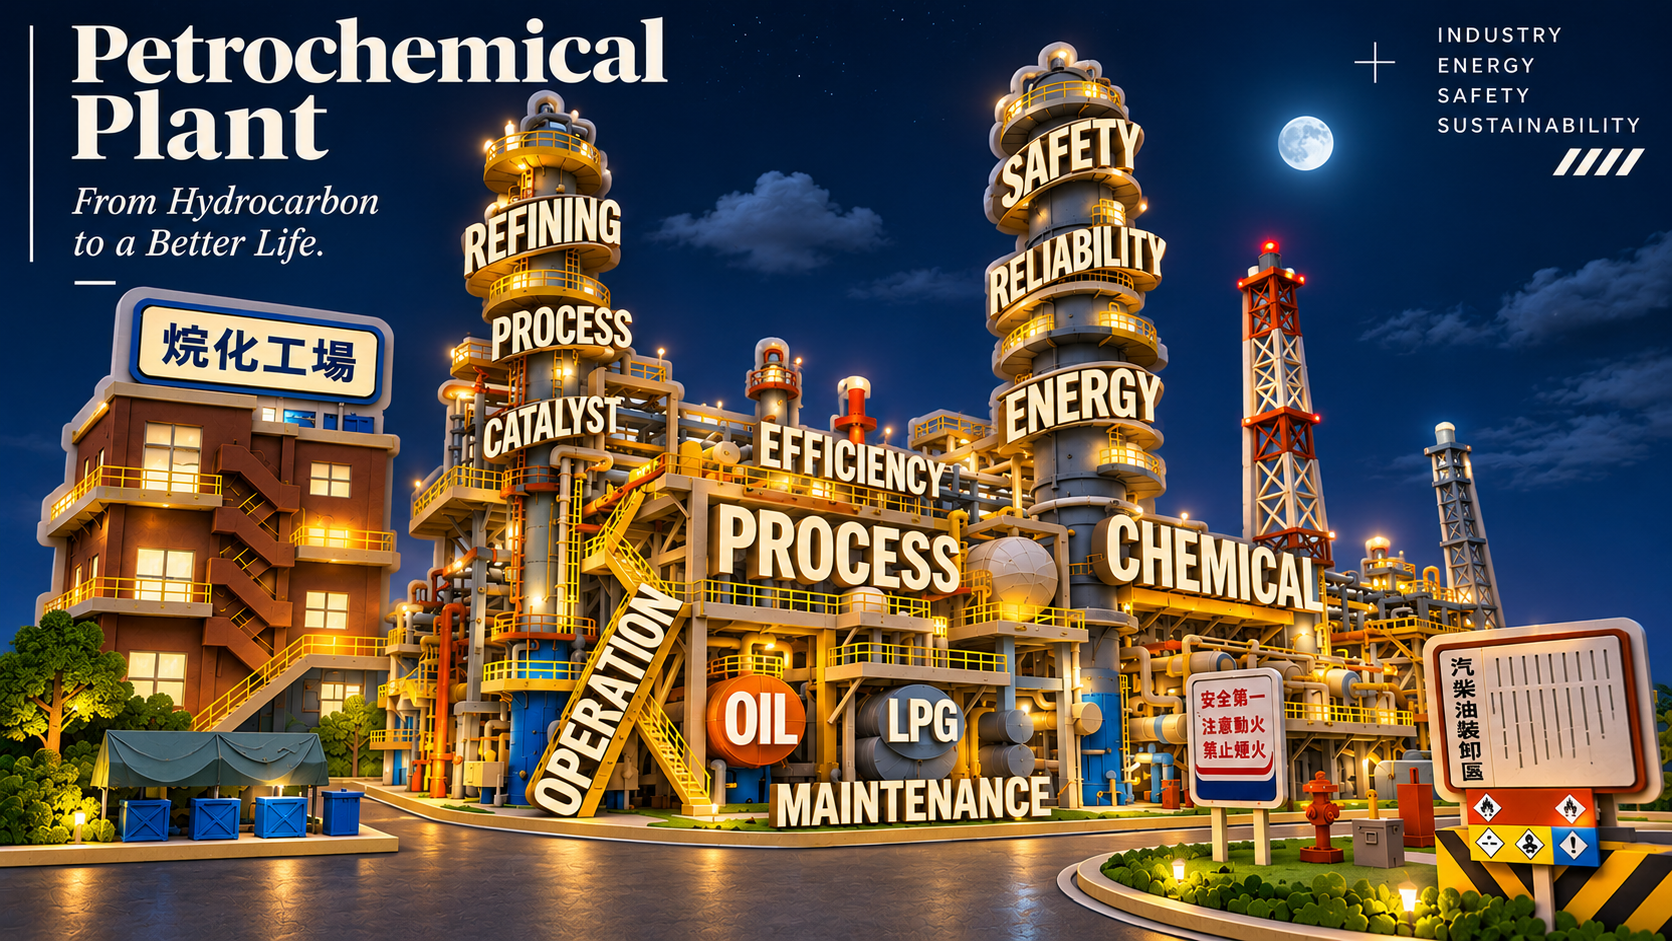
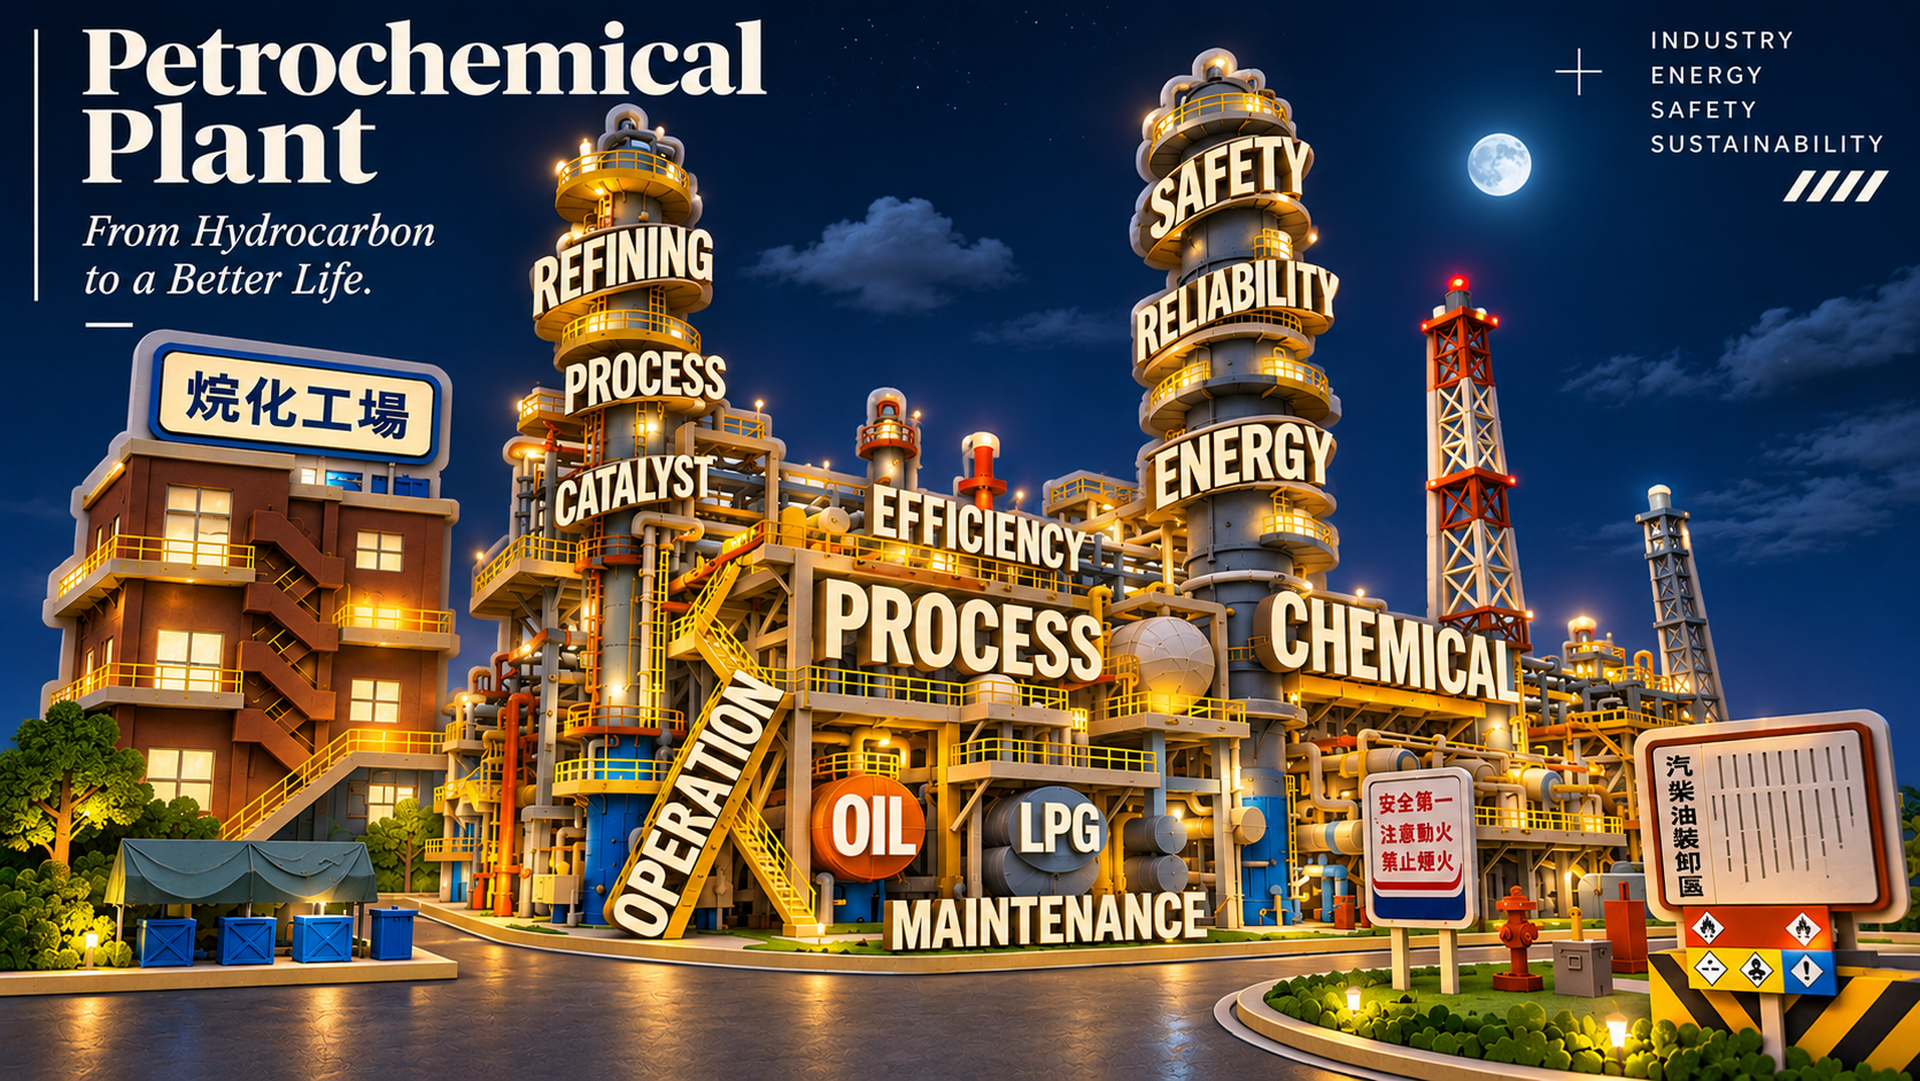
feat: 保存本機進度（更新風格素材、說明文件與批次工具）

diff --git a/src/upscale.py b/src/upscale.py
@@ -1,0 +1,117 @@
+"""圖片高畫質升頻工具 (Image Upscale Tool)
+
+將生成圖片自動調整至至少 1920x1080（2K/FHD）標準規格。
+- 16:9 比例：寬度至少 1920，高度至少 1080
+- 9:16 比例：寬度至少 1080，高度至少 1920
+採用 Pillow Lanczos 高品質插值重採樣，確保線條清晰平滑。
+"""
+
+import argparse
+import sys
+from pathlib import Path
+from PIL import Image
+
+
+TARGET_16_9 = (1920, 1080)
+TARGET_9_16 = (1080, 1920)
+
+
+def upscale_image(
+    image_path: Path,
+    min_width: int = 1920,
+    min_height: int = 1080,
+    output_path: Path | None = None,
+) -> tuple[int, int, bool]:
+    """將單張圖片升頻至指定門檻規格（若小於門檻）。
+
+    回傳：(新寬度, 新高度, 是否有進行放大)
+    """
+    image_path = Path(image_path)
+    if not image_path.exists():
+        raise FileNotFoundError(f"找不到檔案：{image_path}")
+
+    if output_path is None:
+        output_path = image_path
+
+    with Image.open(image_path) as img:
+        orig_w, orig_h = img.size
+        ratio = orig_w / orig_h
+
+        # 判斷是橫向 (接近 16:9) 還是直向 (接近 9:16)
+        if ratio >= 1.0:
+            target_min_w, target_min_h = min_width, min_height
+        else:
+            target_min_w, target_min_h = min_height, min_width
+
+        # 若兩邊都已達到或超過標準，且未強制放大，則保持原樣
+        if orig_w >= target_min_w and orig_h >= target_min_h:
+            return orig_w, orig_h, False
+
+        # 計算保持長寬比下的縮放倍率
+        scale_w = target_min_w / orig_w
+        scale_h = target_min_h / orig_h
+        scale = max(scale_w, scale_h)
+
+        new_w = int(round(orig_w * scale))
+        new_h = int(round(orig_h * scale))
+
+        # 使用 Lanczos 演算法進行高品質重採樣
+        resized_img = img.resize((new_w, new_h), resample=Image.Resampling.LANCZOS)
+
+        # 保持原本色彩模式與儲存品質
+        save_kwargs = {}
+        if image_path.suffix.lower() in [".jpg", ".jpeg"]:
+            save_kwargs["quality"] = 95
+            save_kwargs["subsampling"] = 0
+        elif image_path.suffix.lower() == ".png":
+            save_kwargs["optimize"] = True
+
+        resized_img.save(output_path, **save_kwargs)
+        return new_w, new_h, True
+
+
+def main() -> None:
+    parser = argparse.ArgumentParser(description="圖片高品質升頻至至少 1920x1080 規格")
+    parser.add_argument("path", nargs="?", help="要處理的圖片路徑或資料夾")
+    parser.add_argument("--all", action="store_true", help="批次處理 assets/ 內的所有圖片")
+    args = parser.parse_args()
+
+    project_root = Path(__file__).resolve().parent.parent
+    assets_dir = project_root / "assets"
+
+    targets: list[Path] = []
+    if args.all:
+        if assets_dir.exists():
+            for ext in ("*.jpg", "*.jpeg", "*.png"):
+                targets.extend(assets_dir.glob(ext))
+    elif args.path:
+        p = Path(args.path)
+        if not p.is_absolute():
+            p = project_root / p
+        if p.is_dir():
+            for ext in ("*.jpg", "*.jpeg", "*.png"):
+                targets.extend(p.glob(ext))
+        else:
+            targets.append(p)
+    else:
+        # 預設處理 assets/ 內所有圖片
+        if assets_dir.exists():
+            for ext in ("*.jpg", "*.jpeg", "*.png"):
+                targets.extend(assets_dir.glob(ext))
+
+    if not targets:
+        print("未指定圖片且 assets/ 中無支援格式圖片。")
+        return
+
+    print(f"開始處理，共 {len(targets)} 張圖片...")
+    for t in targets:
+        try:
+            new_w, new_h, modified = upscale_image(t)
+            status = "已放大" if modified else "已達標免放大"
+            print(f"[{status}] {t.name}: {new_w} x {new_h}")
+        except Exception as e:
+            print(f"[失敗] {t.name}: {e}", file=sys.stderr)
+
+
+if __name__ == "__main__":
+    main()

diff --git a/README.md b/README.md
@@ -38,13 +38,15 @@ flowchart LR
     B --> C["使用者確認風格"]
     C --> D["選擇長寬比 (16:9 / 9:16)"]
     D --> E["套用 Prompt 生成圖片"]
-    E --> F["成果存檔至 assets/"]
+    E --> F["畫質檢查與 2K 升頻"]
+    F --> G["成果存檔至 assets/"]
 ```
 
 1. **辨識與挑選風格**：閱讀使用者照片，由 13 種風格中挑選最契合照片主體的 6～10 項供使用者選擇。
 2. **選定長寬比例**：確認使用者偏好畫幅為橫版 `16:9` 或直版 `9:16`。
 3. **執行生成**：結合選定風格 Prompt 與比例指令，發送至圖像生成工具；嚴禁捏造不存在的細節或破壞主體身份。
-4. **成果歸檔**：生成完成後將圖片存檔於 `assets/` 目錄中，並以簡短英文底線命名。
+4. **畫質檢查與 2K 升頻**：成圖必須達到至少 2K（`1920×1080` 或 `1080×1920`）解析度。若原生模型解析度不足，自動透過 `src/upscale.py` 進行高品質 Lanczos 升頻。
+5. **成果歸檔**：生成完成後將圖片存檔於 `assets/` 目錄中，並以簡短英文底線命名。
 
 ---
 
@@ -53,8 +55,12 @@ flowchart LR
 ```text
 picture_style_change/
 ├── assets/                  # 生成圖片成果與範例資產
+│   ├── alps_train_impasto_16x9.jpg
 │   └── kaohsiung_papercut_16x9.png
-├── AGENTS.md                # AI 代理（ChatGPT / Claude / Antigravity）作業規範
+├── src/                     # 專案腳本
+│   └── upscale.py           # 圖片高品質升頻至 1920x1080 工具
+├── upscale_2k.bat           # 一鍵批次升頻啟動器（雙擊自動處理 assets/）
+├── AGENTS.md                # AI 代理作業規範（含 2K 畫質標準與自我驗證）
 ├── README.md                # 專案介紹與操作手冊（本檔）
 ├── 風格改圖整理.md          # 13 種風格清單與 8 段特殊作圖標準提示詞庫
 └── 文獻整理.md              # 原始對話紀錄、出處與 Prompt 備份

diff --git a/AGENTS.md b/AGENTS.md
@@ -19,7 +19,15 @@
 - 使用風格提示詞時，保留提示詞中要求的主體保留規則；把使用者選定的比例套用到提示詞。
 - 使用者明確指定其他風格、比例或構圖時，以該次指示為準。
 - 不在使用者尚未選定風格或比例前開始生成，除非使用者已一次提供完整選擇。
+- 產出解析度規範：成品必須達到至少 2K / FHD 畫質（16:9 為 `1920 × 1080` 以上；9:16 為 `1080 × 1920` 以上）。若生圖引擎原生解析度未達標，生成後須自動呼叫 `src/upscale.py` 進行高品質（Lanczos）升頻後再歸檔。
 - 每次生成完成後，以本 `AGENTS.md` 所在目錄作為專案根目錄，將最終圖片複製到相對路徑 `assets/`。不要依賴磁碟代號、使用者家目錄或其他電腦專屬的絕對路徑。檔名使用簡短英文與底線，避免覆寫既有圖片；將存檔路徑一併提供給使用者。
+
+## 修改後的驗證方式
+
+每次改動或生成圖片後，執行以下 Python 指令驗證圖片解析度是否達標：
+```bash
+python -c "from PIL import Image; from pathlib import Path; [print(p.name, img.size, '達標' if (img.width>=1920 and img.height>=1080) or (img.width>=1080 and img.height>=1920) else '未達標') for p in Path('assets').glob('*.*') if p.suffix.lower() in ['.jpg','.png'] for img in [Image.open(p)]]"
+```
 
 ## 風格資料
 
